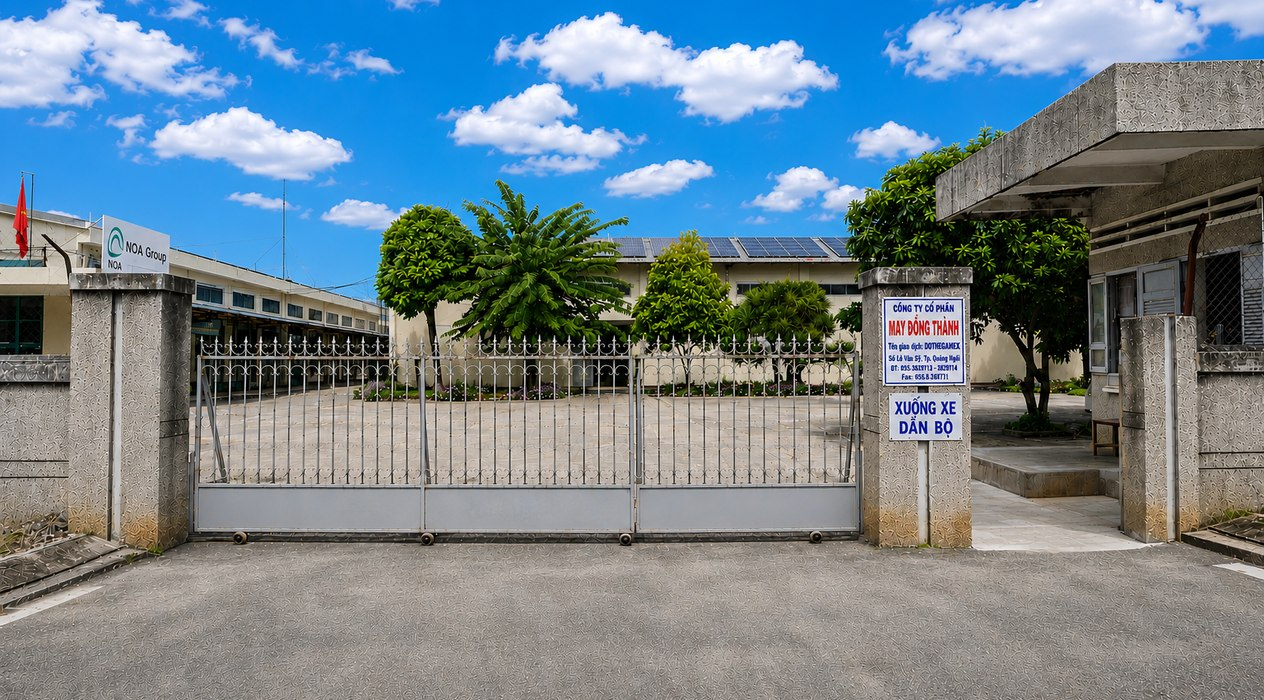
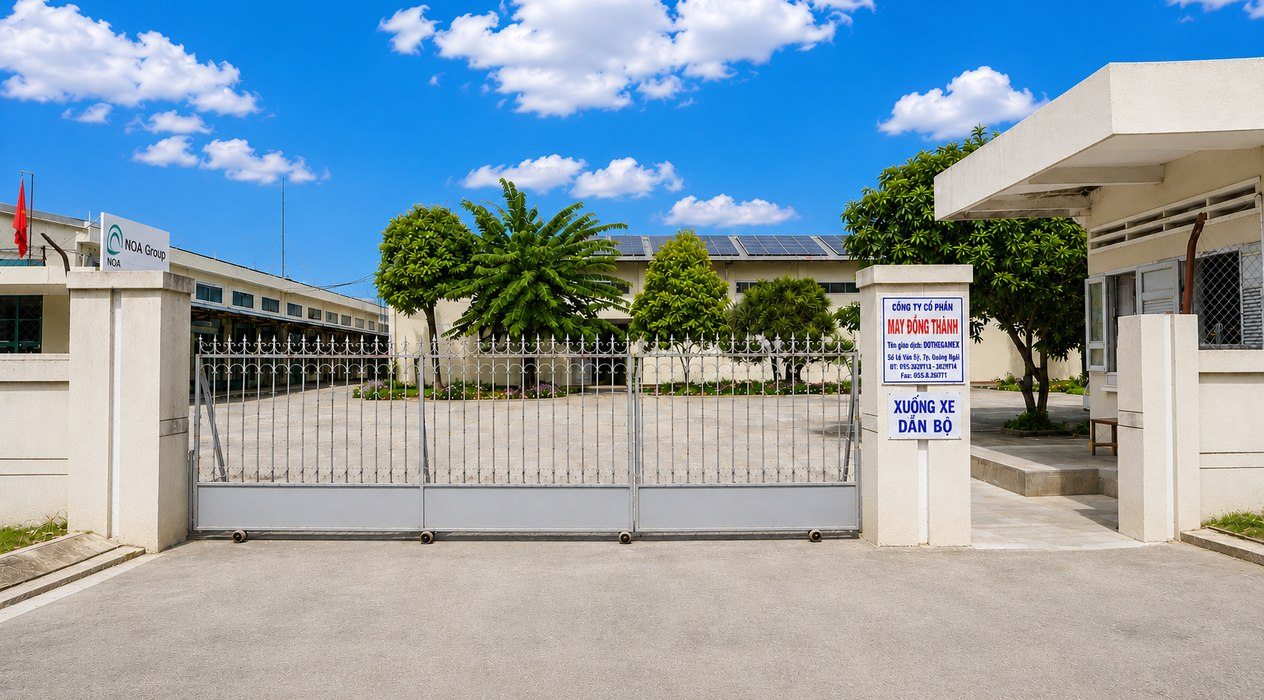
Cap nhat anh moi Xi nghiep 1 (Lien he + Ho so nang luc)

diff --git a/public/contact.html b/public/contact.html
@@ -151,7 +151,7 @@
       <div class="container">
         <p class="map-label" data-en="Headquarters — Factory 1 — 32 Le Van Sy St., Quang Ngai City">Trụ sở chính - Xí nghiệp May Đông Thành 1 — 32 Lê Văn Sỹ, TP. Quảng Ngãi</p>
         <div class="map-frame" data-reveal style="margin-bottom:var(--space-4)">
-          <img src="assets/img/covers/factory1-gate.jpg" alt="Cổng Trụ sở chính - Xí nghiệp May Đông Thành 1 tại TP. Quảng Ngãi" width="1600" height="1067" style="width:100%;height:auto;display:block">
+          <img src="assets/img/covers/factory1-gate.jpg?v=2" alt="Cổng Trụ sở chính - Xí nghiệp May Đông Thành 1 tại TP. Quảng Ngãi" width="1600" height="1067" style="width:100%;height:auto;display:block">
         </div>
         <div class="map-frame" data-reveal>
           <iframe

diff --git a/public/profile.html b/public/profile.html
@@ -97,7 +97,7 @@
       <div class="container">
         <div class="facility-photos">
           <div class="media-frame" data-reveal>
-            <img src="assets/img/gallery/g17.jpg?v=2" alt="Trụ sở chính - Xí nghiệp May Đông Thành 1 tại TP. Quảng Ngãi" width="1264" height="700">
+            <img src="assets/img/gallery/g17.jpg?v=3" alt="Trụ sở chính - Xí nghiệp May Đông Thành 1 tại TP. Quảng Ngãi" width="1264" height="700">
             <span class="media-tag" data-en="Headquarters — Factory 1">Trụ sở chính - Xí nghiệp May Đông Thành 1</span>
           </div>
           <div class="media-frame" data-reveal data-reveal-delay="1">
